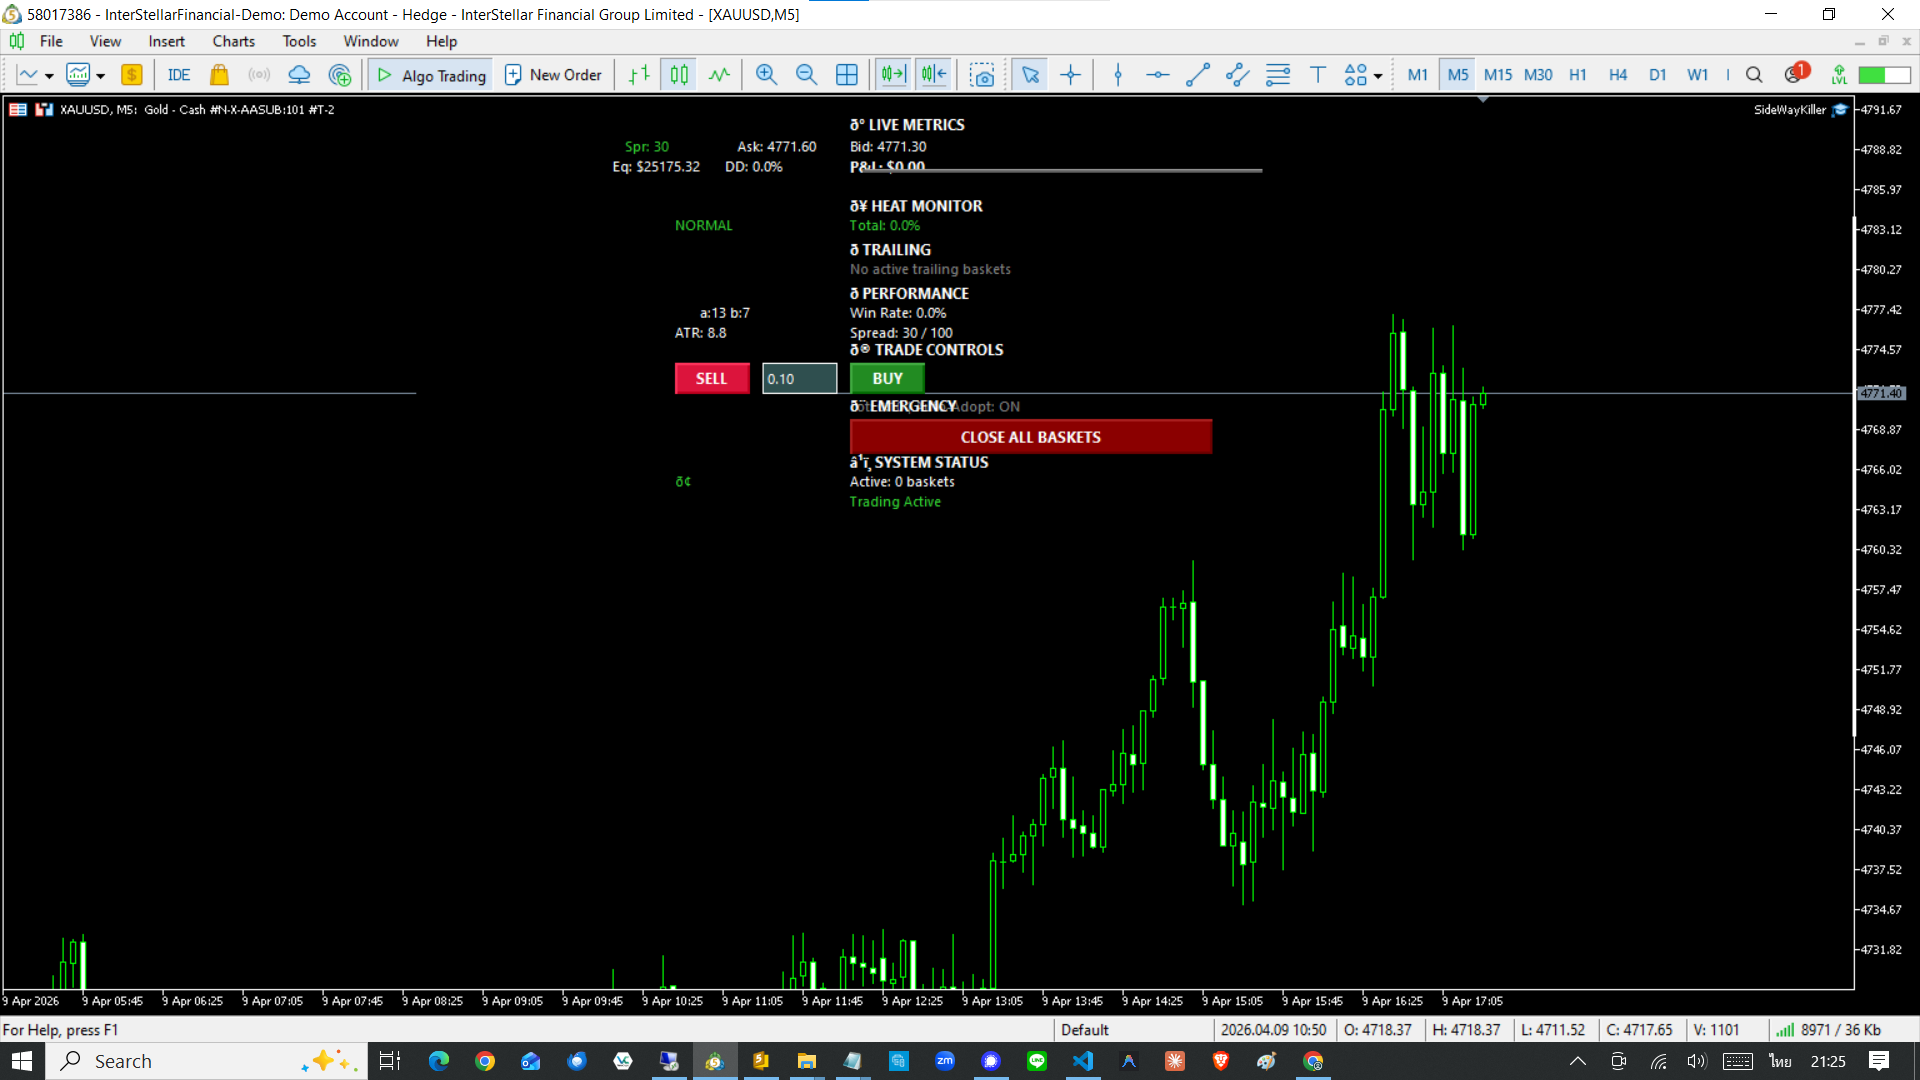
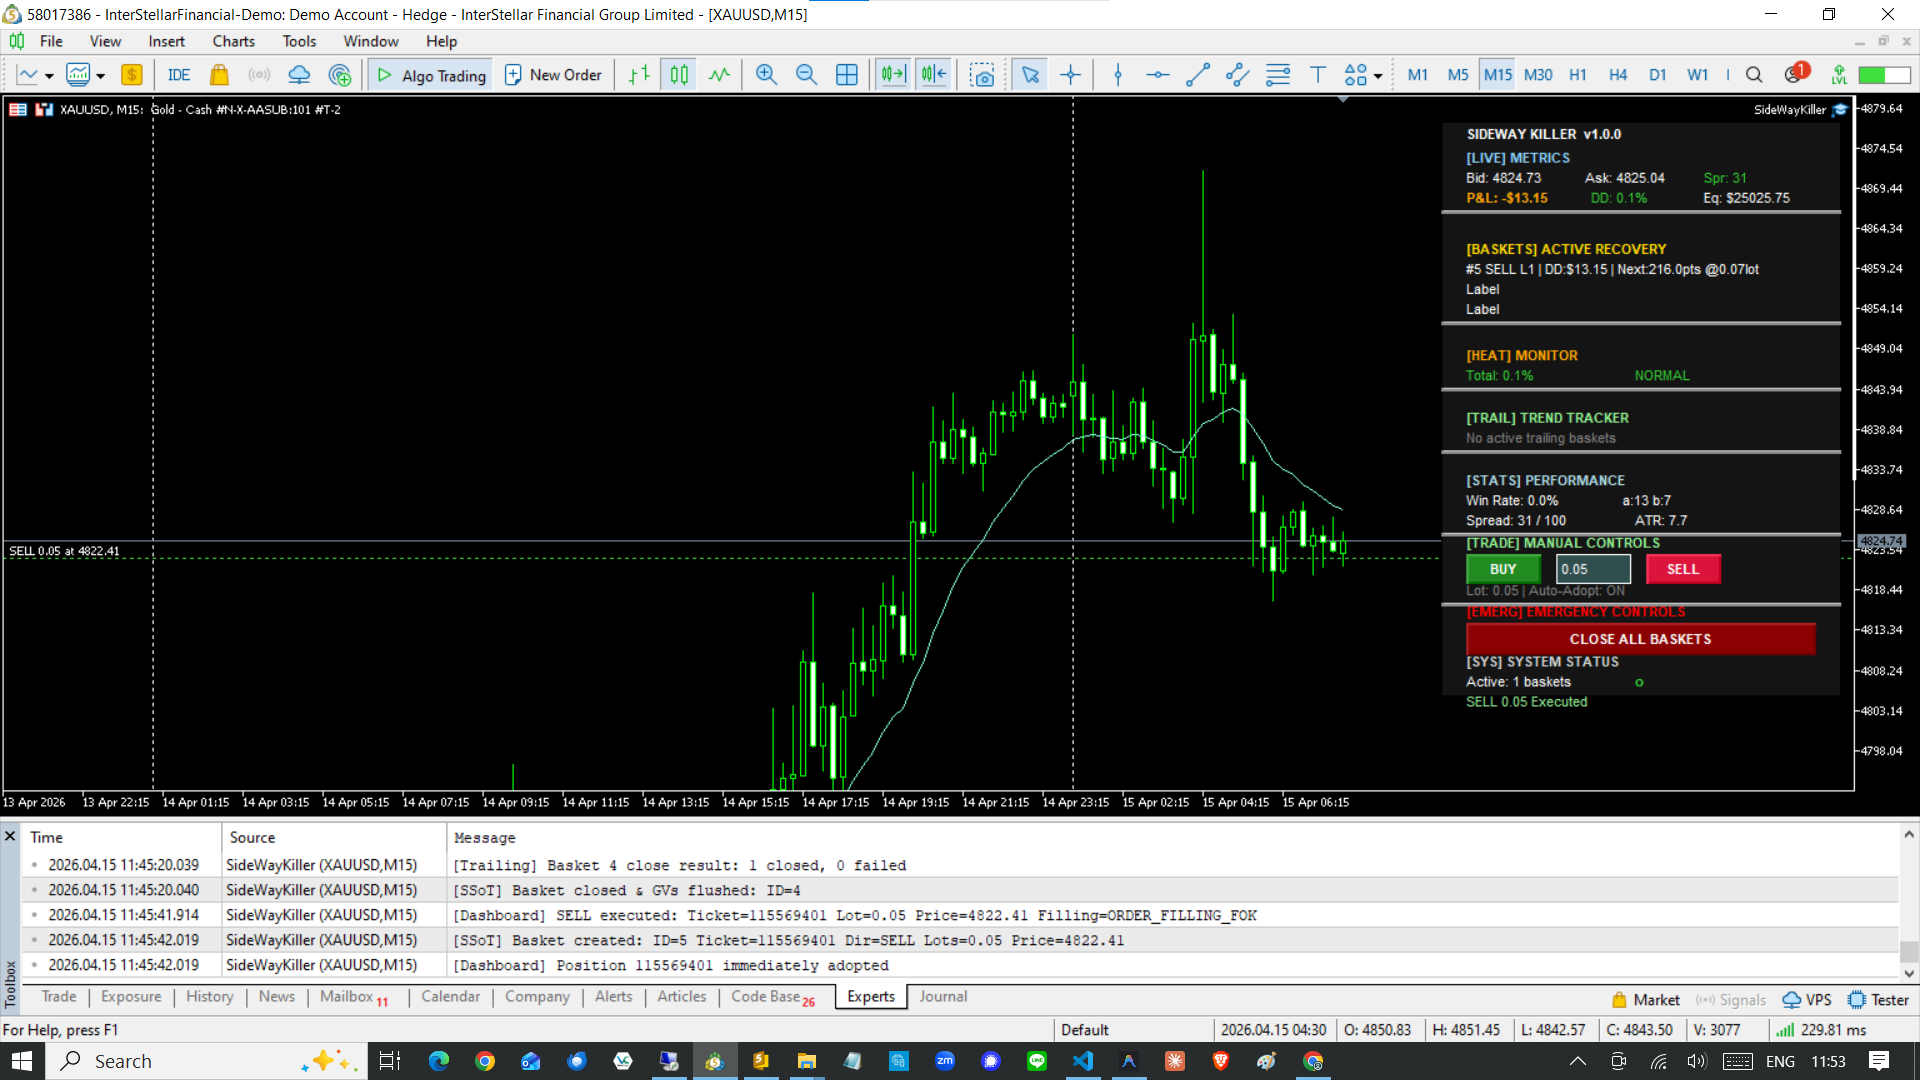
feat: Grid Level Preview Enhancements + Screenshot Cleanup
- What: Enhanced grid module with improved level preview logic, updated dashboard screenshot, cleaned up redundant screenshots
- Why: Improve grid system visualization and reduce screenshot clutter
- Impact: SK_Grid.mqh (+73 lines), SideWayKiller.mq5 minor updates

diff --git a/Docs/Next_Grid_Level_Preview_UI.md b/Docs/Next_Grid_Level_Preview_UI.md
@@ -1,0 +1,183 @@
+BLUEPRINT: Next Grid Level Preview UI Enhancement
+1. Executive Summary
+Scope: Add per-basket "Next Grid Distance" and "Next Grid Lot" fields to the dashboard.
+Complexity: MEDIUM — requires new dashboard section creation, dynamic object lifecycle management, and real-time integration with SK_Grid.mqh and SK_LotMultiplier.mqh.
+Constraint: The current dashboard panel (DASH_PANEL_HEIGHT = 380) has no existing per-basket info panel. A new expandable "Active Baskets" section must be created.
+
+2. Current State Analysis
+2.1 Dashboard Layout (Y-Axis usage)
+Section	Start Y	Height Used
+Header	+3	~20px
+Live Metrics	+30	~55px
+Heat Monitor	+90	~40px
+Trailing Tracker	+135	~40px
+Performance Metrics	+180	~40px
+Trade Controls	+225	~50px
+Emergency Controls	+280	~30px
+System Status	+330	~40px
+Total	—	~315px used / 380px available
+Finding: Only ~65px of vertical space remains. A multi-line basket list will not fit inside the current 380px panel.
+
+2.2 Existing Basket Display
+None. The dashboard currently shows only aggregate P&L and a single-line trailing tracker.
+The function Dashboard_UpdateBasketInfo() does not exist in SK_Dashboard.mqh.
+2.3 Relevant Calculation APIs
+Metric	Source Function	File	Parameters
+Next Grid Distance	GetGridDistance(basketIndex, nextLevel)	SK_Grid.mqh	nextLevel = g_baskets[i].levelCount
+Next Grid Trigger Price	Grid_CalculateNextTriggerPrice(basketIndex)	SK_Grid.mqh	Returns absolute price (already exists)
+Next Grid Lot	GetLotMultiplier(basketIndex, nextLevel)	SK_LotMultiplier.mqh	nextLevel = g_baskets[i].levelCount
+Normalized Lot	Lot_Normalize(lot)	SK_LotMultiplier.mqh	Applies broker step constraints
+3. Proposed Architecture
+3.1 Visual Design
+Create a new section [BASKETS] ACTIVE RECOVERY inserted between Live Metrics and Heat Monitor.
+
+Per-basket row format:
+
+#744 BUY L2 | DD:$12.34 | NextGrid: 689.5pts @ 0.08lot
+#745 SELL L1 | DD:$5.67 | NextGrid: 452.0pts @ 0.05lot
+Fields per row:
+
+BasketID — e.g., #744
+Direction — BUY or SELL
+LevelCount — L2 (current levels)
+Drawdown — $12.34
+NEW: NextGridDist — 689.5pts
+NEW: NextGridLot — 0.08lot
+3.2 Panel Sizing
+Increase DASH_PANEL_HEIGHT from 380 to 460 to accommodate up to 3 active baskets.
+Rationale: Inp_MaxConcurrentBaskets = 3 (default), so the UI must support 3 rows.
+
+Revised Y-Layout:
+
+Section	Start Y
+Header	+3
+Live Metrics	+30
+Active Baskets	+90
+Heat Monitor	+180
+Trailing Tracker	+225
+Performance Metrics	+270
+Trade Controls	+315
+Emergency Controls	+370
+System Status	+420
+4. Implementation Blueprint
+4.1 New Constants & Object Naming
+//--- In SK_Dashboard.mqh, add:
+#define DASH_OBJ_BASKET    "SK_Dash_Basket_"
+#define DASH_MAX_BASKET_ROWS 3   // Matches Inp_MaxConcurrentBaskets
+4.2 New Functions to Create
+A. Dashboard_CreateBasketInfo()
+Purpose: Initialize the section header and dynamic basket rows.
+Location: Call from Dashboard_Init(), between Dashboard_CreateLiveMetrics() and Dashboard_CreateHeatMonitor().
+
+Logic:
+
+Create section header label: [BASKETS] ACTIVE RECOVERY
+Pre-create up to DASH_MAX_BASKET_ROWS label objects:
+Name pattern: DASH_OBJ_BASKET + "Row_" + i
+Default text: "" (empty, hidden when no basket)
+Position: left = g_dashBaseX - DASH_MARGIN_LEFT, row = baseY + 108 + (i * DASH_ROW_HEIGHT)
+B. Dashboard_UpdateBasketInfo()
+Purpose: Populate real-time grid preview data for every active basket.
+Location: Call from Dashboard_TimerCycle() (1-second update) and optionally from Dashboard_UpdateLiveMetrics() for faster refresh.
+
+Pseudocode:
+
+void Dashboard_UpdateBasketInfo()
+{
+   int rowCount = 0;
+   
+   for(int i = 0; i < g_basketCount; i++)
+   {
+      if(!g_baskets[i].isValid || g_baskets[i].status != BASKET_ACTIVE)
+         continue;
+      if(rowCount >= DASH_MAX_BASKET_ROWS)
+         break;
+      
+      //--- Calculate Next Grid Distance
+      int nextLevel = g_baskets[i].levelCount;
+      double nextGridDist = GetGridDistance(i, nextLevel);
+      
+      //--- Calculate Next Grid Lot
+      double multiplier = GetLotMultiplier(i, nextLevel);
+      double baseLot = g_baskets[i].levels[0].lotSize;
+      double nextLot = Lot_Normalize(baseLot * multiplier);
+      
+      //--- Calculate drawdown for context
+      double basketDD = Safety_GetBasketHeat(i);  // or use heatCache directly
+      
+      string objName = DASH_OBJ_BASKET + "Row_" + rowCount;
+      string text = "#" + (string)g_baskets[i].basketId + " " +
+                    (g_baskets[i].direction == 0 ? "BUY" : "SELL") + " L" + (string)(nextLevel) +
+                    " | DD:" + DoubleToString(basketDD, 1) + "%" +
+                    " | Next:" + DoubleToString(nextGridDist, 1) + "pts" +
+                    " @ " + DoubleToString(nextLot, 2) + "lot";
+      
+      ObjectSetString(0, objName, OBJPROP_TEXT, text);
+      ObjectSetInteger(0, objName, OBJPROP_COLOR, clrWhite);
+      rowCount++;
+   }
+   
+   //--- Hide unused rows
+   for(int i = rowCount; i < DASH_MAX_BASKET_ROWS; i++)
+   {
+      ObjectSetString(0, DASH_OBJ_BASKET + "Row_" + i, OBJPROP_TEXT, "");
+   }
+}
+C. Dashboard_RemoveBasketInfo()
+Purpose: Clean up dynamic objects on deinit.
+Location: Call from Dashboard_RemoveAll() or Dashboard_Deinit().
+
+Logic:
+
+for(int i = 0; i < DASH_MAX_BASKET_ROWS; i++)
+   ObjectDelete(0, DASH_OBJ_BASKET + "Row_" + i);
+5. Integration Points
+5.1 Dashboard_Init() Modification
+Add Dashboard_CreateBasketInfo(); after Dashboard_CreateLiveMetrics();.
+
+5.2 Dashboard_TimerCycle() Modification
+Add Dashboard_UpdateBasketInfo(); inside the 1-second block:
+
+if(g_dashCycleCount >= DASH_CYCLES_PER_SECOND)
+{
+   // ... existing logic ...
+   Dashboard_UpdateBasketInfo();   // NEW
+   Dashboard_FullUpdate();
+}
+5.3 Dashboard_Deinit() / Dashboard_RemoveAll() Modification
+Ensure basket row objects are deleted. Since Dashboard_RemoveAll() already deletes all SK_Dash_* prefixed objects, no extra work is needed provided the new objects use the DASH_OBJ_BASKET prefix.
+
+6. Technical Considerations & Risks
+6.1 DVASS Dynamic Update
+Requirement: "Next Grid Dist" must update in real-time if ATR changes.
+Solution: GetGridDistance() reads from g_gridCachedATR14, which is refreshed every 1 second by Grid_RefreshCache() inside Dashboard_TimerCycle(). The 1-second update frequency of Dashboard_UpdateBasketInfo() is sufficient for DVASS mode.
+
+6.2 Lot Calculation Accuracy
+Risk: GetLotMultiplier() returns the multiplier, not final lot size.
+Mitigation: The blueprint explicitly multiplies by g_baskets[i].levels[0].lotSize and passes through Lot_Normalize() to match the exact lot that Grid_AddLevel() would send to the broker.
+
+6.3 Heat Constraint Visibility
+Risk: If heat throttling is active, GetLotMultiplier() already applies the heat constraint internally. The dashboard will correctly show the reduced lot size.
+Enhancement opportunity: Change the lot color to clrOrange or clrYellow when heat-constrained to provide visual feedback.
+
+6.4 Panel Overflow
+Risk: If Inp_MaxConcurrentBaskets > 3, rows could exceed panel height.
+Mitigation: Cap displayed rows at DASH_MAX_BASKET_ROWS = 3 and add a "+N more" indicator if exceeded.
+
+6.5 Object Lifecycle
+Risk: If basket compaction changes indices between Create and Update, row text might briefly flicker.
+Mitigation: The loop reads directly from g_baskets[] during UpdateBasketInfo(), using the current compacted indices. No caching of basket IDs is needed.
+
+7. Files to Modify
+File	Changes
+SK_Dashboard.mqh	Add constants, Dashboard_CreateBasketInfo(), Dashboard_UpdateBasketInfo(), integrate into Init/TimerCycle/RemoveAll, increase DASH_PANEL_HEIGHT
+SK_Grid.mqh	No changes required — GetGridDistance() is already public
+SK_LotMultiplier.mqh	No changes required — GetLotMultiplier() and Lot_Normalize() are already public
+8. Acceptance Criteria
+ New [BASKETS] ACTIVE RECOVERY section appears below Live Metrics.
+ Each active basket displays: ID, Direction, Levels, Drawdown, NextGridDist, NextGridLot.
+ NextGridDist updates automatically when ATR changes (DVASS mode).
+ NextGridLot reflects current mode: FIXED, BAYESIAN, or HYBRID.
+ Empty rows are hidden when basket count is below max.
+ Panel height expanded to prevent clipping.
+ No memory leaks (objects cleaned up on deinit).
